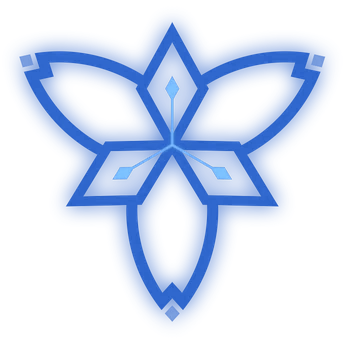
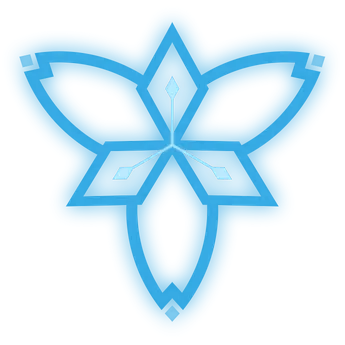
Symbole dans le panier : bleu de la porte (bleu.webp) à la place du bleu foncé

Changed region(s): [[0.058, 0.058, 0.9565, 0.9275]]

diff --git a/site/cosmetiques.html b/site/cosmetiques.html
@@ -10,7 +10,7 @@
 <meta name="viewport" content="width=device-width, initial-scale=1.0">
   <link rel="stylesheet" href="/commun/theme.css?v=rem5">
   <link rel="stylesheet" href="/commun/entete.css?v=rem49">
-  <link id="styles-personnalisation" rel="stylesheet" href="/commun/personnalisation.css?v=33">
+  <link id="styles-personnalisation" rel="stylesheet" href="/commun/personnalisation.css?v=34">
   <link rel="stylesheet" href="/cosmetiques/cosmetiques.css?v=5">
   <link rel="stylesheet" href="/commun/tirage_boss.css?v=10">
   <link rel="stylesheet" href="/commun/site.css?v=19">
@@ -40,7 +40,7 @@
 
   <script src="/commun/variantes.js?v=7"></script>
   <script src="/commun/koyns.js?v=15"></script>
-  <script src="/commun/personnalisation.js?v=56"></script>
+  <script src="/commun/personnalisation.js?v=57"></script>
   <script src="/commun/tirage_voeu.js?v=7"></script>
   <script src="/cosmetiques/cosmetiques.js?v=14"></script>
   <script src="/commun/listes.js?v=1"></script>

diff --git a/site/commun/personnalisation.css b/site/commun/personnalisation.css
@@ -688,9 +688,9 @@
   filter: brightness(0.8);
 }
 
-/* Dans le panier : symbole en bleu (rouge -> bleu foncé, orange -> bleu clair). */
+/* Dans le panier : symbole en bleu (rouge -> bleu de la porte de bleu.webp, orange -> bleu très clair). */
 .perso-choix-image.dans-panier .perso-symbole {
-  background-image: url("/DB/images/others/symbole_verrou_panier.webp");
+  background-image: url("/DB/images/others/symbole_verrou_panier.webp?v=2");
 }
 
 .perso-choix-image.dans-panier .perso-prix {

diff --git a/site/my_account/my_account.html b/site/my_account/my_account.html
@@ -335,7 +335,7 @@
   <script src="/commun/synergies.js?v=6"></script>
   <script src="/commun/cartes.js?v=38"></script>
   <script src="/commun/tri.js?v=21"></script>
-  <script src="/commun/personnalisation.js?v=56"></script>
+  <script src="/commun/personnalisation.js?v=57"></script>
   <script src="/commun/recommandations_stuff.js?v=2"></script>
   <script src="/my_account/my_account.js?v=89"></script>
   <script src="/commun/listes.js?v=1"></script>

diff --git a/site/commun/personnalisation.js b/site/commun/personnalisation.js
@@ -113,7 +113,7 @@
     const lien = document.createElement("link");
     lien.id = "styles-personnalisation";
     lien.rel = "stylesheet";
-    lien.href = "/commun/personnalisation.css?v=33";
+    lien.href = "/commun/personnalisation.css?v=34";
     document.head.appendChild(lien);
   }
 
